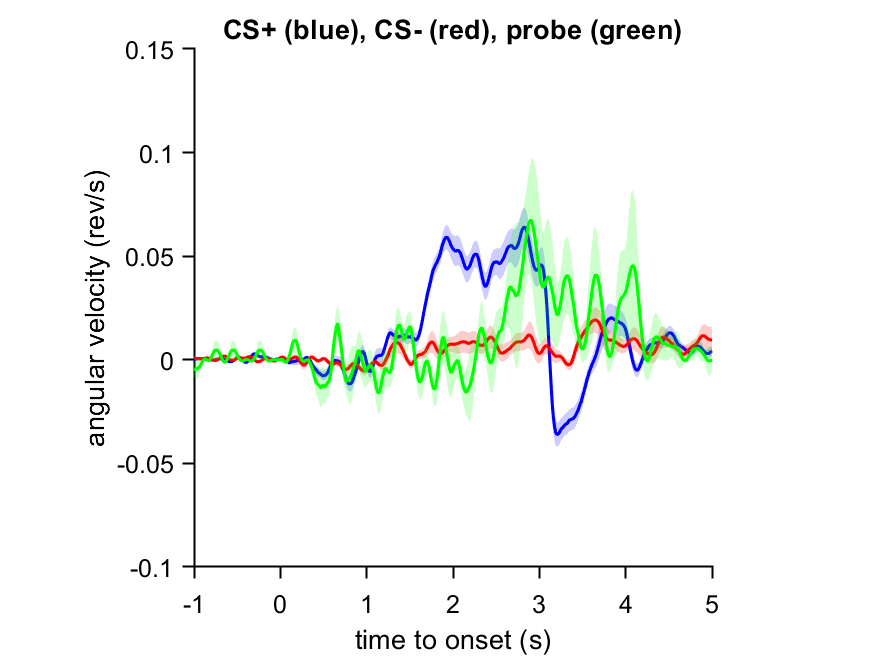
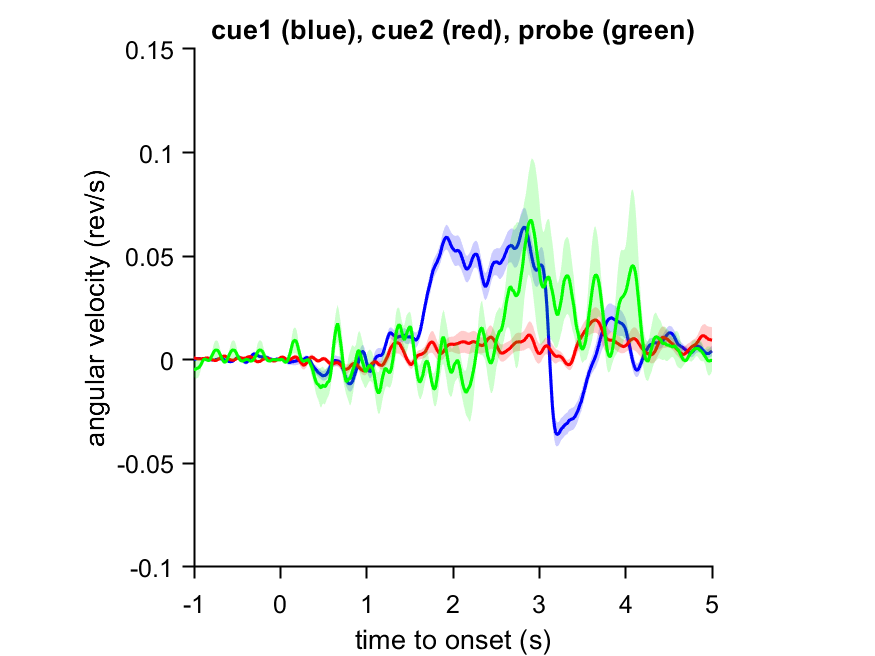
data add
added data for trial by trial

Changed region(s): [[0.2469, 0.0305, 0.8023, 0.0915]]

diff --git a/FD3119_audio_cue_test.m b/FD3119_audio_cue_test.m
@@ -87,10 +87,10 @@ end
 %% --- plot all the trial types included ---
 
 if reverse
-    trialTypes  = {'Cue1','Cue2','Cue2_probe'};
+    trialTypes  = {'Cue 1','Cue 2','Cue 2 probe'};
     trial_arrays = {Cue1, Cue2, Cue2_probe};
 else
-    trialTypes  = {'Cue1','Cue2','Cue1_probe'};
+    trialTypes  = {'Cue 1','Cue 2','Cue 1 probe'};
     trial_arrays = {Cue1, Cue2, Cue1_probe};
 end
 
@@ -102,6 +102,12 @@ probeStats = plotAngVel_final(smooth_resamp_vels, trial_arrays,...
                 trialTypes, finalFPS, [precue,postcue], ...
                 doBaseline, analysisWindow);
 
+%% --- Plot trial by trial angular velocity of cue 1 and cue 2 using imagesc ---
+precue = 1;
+postcue = 5;
+
+plotTrialHeatmaps(smooth_resamp_vels, trial_arrays, trialTypes, finalFPS, [precue, postcue]);
+
 %% --- plot the startle response adaptation in first one second after cue ---
 do2 = 0;
 if do2
@@ -109,9 +115,8 @@ plotAngVel_byCueOverT(smooth_resamp_vels, trial_arrays,...
                 trialTypes, finalFPS, cue_to_laser_time,5);
 end
 
-%% --- Plot trial by trial angular velocity of cue 1 and cue 2 using imagesc ---
-precue = 1;
-postcue = 5;
-
-plotTrialHeatmaps(smooth_resamp_vels, trial_arrays, trialTypes, finalFPS, [precue, postcue]);
-
+%% --- Save figures: CHANGE NAME ---
+% saveas(figure(1), 'TD156_session6.png')
+% saveas(figure(2), 'TD156_session6_Cue1trials.png')
+% saveas(figure(3), 'TD156_session6_Cue2trials.png')
+% saveas(figure(4), 'TD156_session6_probetrials.png')

diff --git a/plotTrialHeatmaps.m b/plotTrialHeatmaps.m
@@ -43,9 +43,10 @@ function plotTrialHeatmaps(smooth_resamp_vels, trial_arrays, trialTypes, fs, win
         figure;
         imagesc(timeAxis, 1:nTrials, trialMatrix);
         colormap(jet); colorbar;
-        xlabel('Time (s)');
-        ylabel('Trial');
-        title(sprintf('Angular velocity: %s', trialTypes{tt}));
+        xlabel('time (s)');
+        ylabel('trial');
+        title(sprintf('angular velocity: %s', trialTypes{tt}));
         xline(0,'w--','LineWidth',1.5);
+        SetFigBoxDefaults
     end
 end
